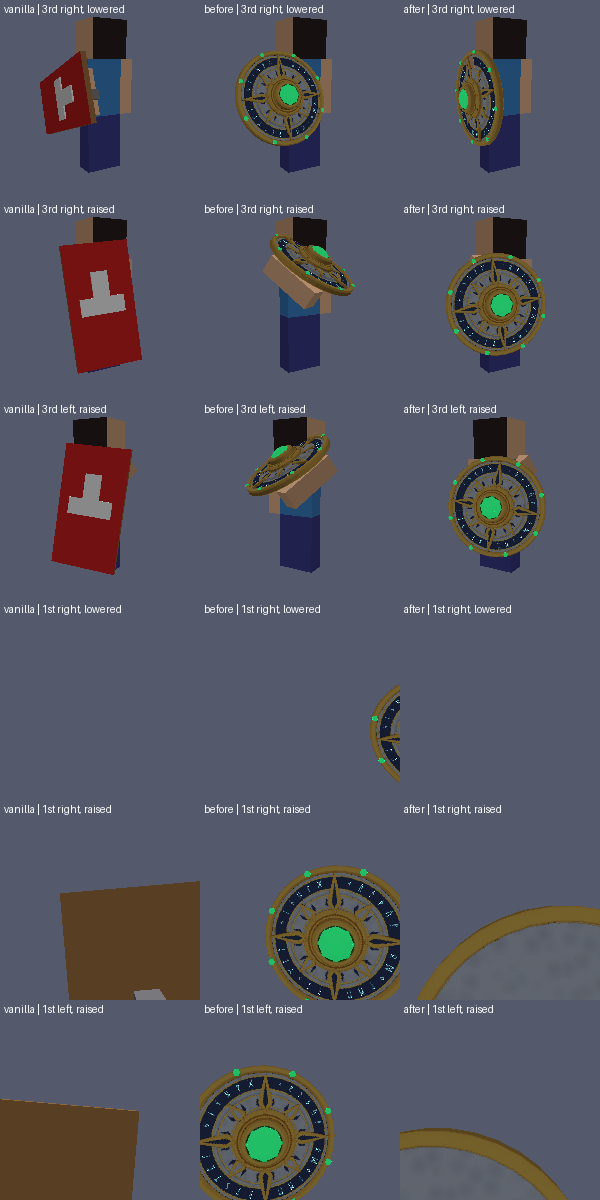
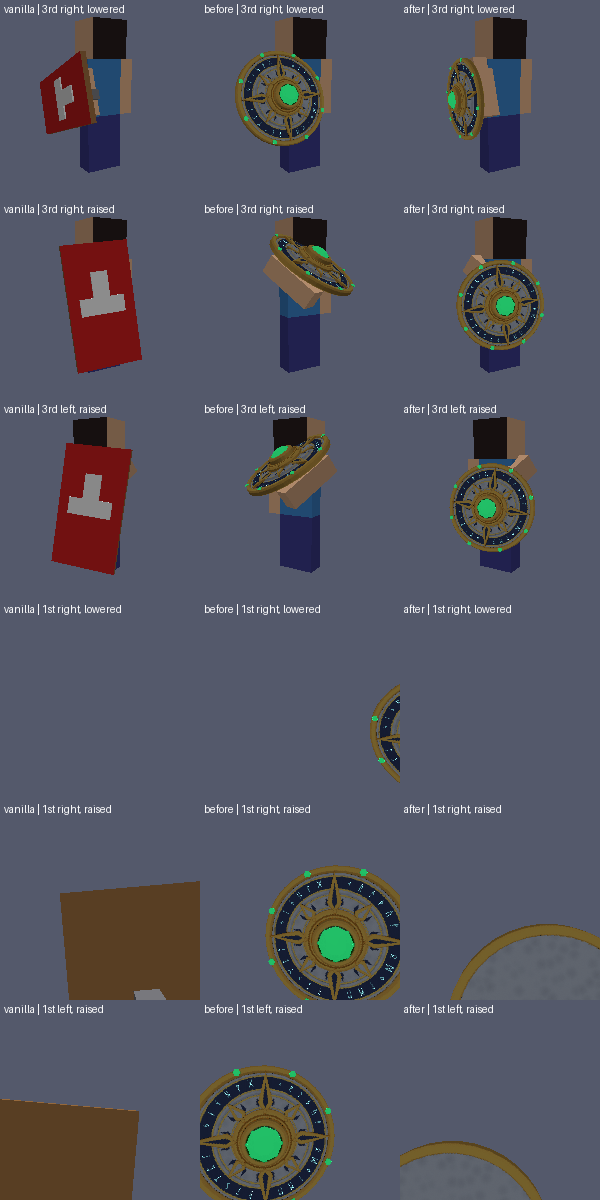
4.71.2: the hero Shield sits a little off the arm [smoke] [strict]
Claude-Session: https://claude.ai/code/session_0174t393fJ2EgwV92FW9SroE

diff --git a/tools/item_preview/preview_shields.py b/tools/item_preview/preview_shields.py
@@ -183,13 +183,19 @@ def old_frame(place, quads):
 
 
 def new_frame(quads):
-    """ShieldFrame.fit: scale to the box, centre, front plane on the plate's front."""
+    """ShieldFrame.fit (4.71.2): scale into 1.1 x 1.0 blocks and at most 0.7 deep, centre, front plane on the plate's front, straps no lower than -0.25, then ARM_GAP (0.14) further along the front axis."""
     xs = [v for (_, p, _) in quads for v in p[:, 0]]
     ys = [v for (_, p, _) in quads for v in p[:, 1]]
     zs = [v for (_, p, _) in quads for v in p[:, 2]]
-    w, h = max(xs) - min(xs), max(ys) - min(ys)
-    k = min(1.3 / w, 1.2 / h)
-    return T(-k * (min(xs) + max(xs)) / 2, -k * (min(ys) + max(ys)) / 2, 2 / 16 - k * max(zs)) @ S(k, k, k)
+    w, h, d = max(xs) - min(xs), max(ys) - min(ys), max(zs) - min(zs)
+    k = min(1.1 / w, 1.0 / h)
+    if d > 0 and k * d > 0.7:
+        k = 0.7 / d
+    tz = 2 / 16 - k * max(zs)
+    back = tz + k * min(zs)
+    if back < -0.25:
+        tz += -0.25 - back
+    return T(-k * (min(xs) + max(xs)) / 2, -k * (min(ys) + max(ys)) / 2, tz + 0.14) @ S(k, k, k)
 
 
 # ---------------------------------------------------------------- rendering

diff --git a/src/main/java/com/newuniverse/nusmp/client/WeaponRenderer.java b/src/main/java/com/newuniverse/nusmp/client/WeaponRenderer.java
@@ -264,7 +264,7 @@ public class WeaponRenderer extends BlockEntityWithoutLevelRenderer {
         }
         if (wrap == null && mesh.shield != null) {                                 // 1.110.0: a shield sits on vanilla's shield frame (visual/shields/ShieldFrame), so vanilla's display values turn it the vanilla way
             float[] sf = ctx.firstPerson() && mesh.shieldFp != null && com.newuniverse.nusmp.visual.shields.ShieldFrame.firstPersonVanillaSize() ? mesh.shieldFp : mesh.shield;      // 4.36.2: in first person a shield is the size of vanilla's, not the 1.3-wide box (it filled the screen)
-            pose.translate(sf[1], sf[2], sf[3]);
+            pose.translate(sf[1], sf[2], sf[3] + com.newuniverse.nusmp.visual.shields.ShieldFrame.armGap());       // 4.71.2: a little off the arm
             pose.scale(sf[0], sf[0], sf[0]);
         } else if (wrap == null) {
             if (gripShift != null) pose.translate(gripShift[0], gripShift[1], gripShift[2]);       // 1.111.0 (docs/weapon_grip.md): the mesh's grip point lands on the hand (third person) / on a sword's hilt spot (first person)

diff --git a/src/main/java/com/newuniverse/nusmp/visual/shields/ShieldFrame.java b/src/main/java/com/newuniverse/nusmp/visual/shields/ShieldFrame.java
@@ -25,6 +25,10 @@ public final class ShieldFrame {
     public static float maxW() { return oldSize() ? OLD_MAX_W : MAX_W; }
     public static float maxH() { return oldSize() ? OLD_MAX_H : MAX_H; }
 
+    /** 4.71.2: how far a mesh is moved off the arm along the shield's front axis (blocks): away from the forearm when raised, away from the hip when lowered. 0 with {@code shieldSize=old}. */
+    public static final float ARM_GAP = 0.14f;
+    public static float armGap() { return oldSize() ? 0f : ARM_GAP; }
+
     /**
      * 4.36.2: the footprint box in FIRST person, in blocks: vanilla's own plate width (12 / 16) and the usual height. Vanilla's first-person display multiplies a shield by 1.25 and
      * holds it close to the camera, so the 1.3 wide box above filled the screen; this keeps a mod shield the size of a vanilla one in the hand.

diff --git a/CHANGELOG.md b/CHANGELOG.md
@@ -1,5 +1,13 @@
 # Changelog
 
+## [4.71.2] — The hero Shield sits a little off the arm
+Owner request: move the shield off the arm a bit.
+- REPLACED (client; `-Danime_multiverse.shieldSize=old` restores it together with the 4.71.0 size change): every shield mesh is drawn 0.14 blocks further along its front axis (`ShieldFrame.ARM_GAP`), away from the forearm when raised and from the hip when lowered. Facing and scale are unchanged.
+- KEPT: the vanilla display values, the fit box and depth limit of 4.71.0, every old model and setting.
+- COST: none (one added constant in the existing pose translate).
+- CAVEATS: software preview only (`docs/previews/shields/`), first-person tiles are drawn at the old size; not seen in a game.
+- Includes everything of 4.65.0 to 4.71.1 (see below): no release was published for those versions because of three outdated relic tests, fixed in 4.71.1.
+
 ## [4.71.1] — Build fix for 4.65.0 to 4.71.0 (the Devil Contract is a plain item)
 - Fix: three relic tests (`RelicHandCoverageTest`, `RelicThemesDataTest`, `Wave102DefsTest`) still expected `devil_contract` to be a relic def, which 4.65.0 turned into a plain craftable item; every build since 4.65.0 failed on them, so no release was published for 4.65.0 to 4.71.0. The tests now know that item. The Devil Contract itself is unchanged.
 - This release carries everything of 4.65.0 to 4.71.0 (see the sections below): infernal contract item, Sinbad armour fit and voices, reset scrolls, curse bow stave, Hub v2, style wave 2, the hero Shield (vanilla guard, reflect, size), any-target techniques, wings on the back, devil mastery and canon devil looks.

diff --git a/LIBRARIES.md b/LIBRARIES.md
@@ -16,7 +16,7 @@ time you build, from the repositories named in `source/build.gradle` and `source
 - Tests: JUnit Jupiter 5.10.2 (Maven Central)
 - Texture regeneration only (optional): Python 3 with Pillow and numpy -> `python tools/gen_grimoire_book_textures.py`
 
-Build:  `gradlew.bat build`  (Mac/Linux `./gradlew build`)  ->  `build/libs/multiverse-of-anime-4.71.1.jar`
+Build:  `gradlew.bat build`  (Mac/Linux `./gradlew build`)  ->  `build/libs/multiverse-of-anime-4.71.2.jar`
 
 Magic rune textures: Node.js (no external packages) -> `node tools/gen_magic_runes.mjs`; optional high-detail ring and band textures use Pillow -> `python tools/gen_magic_runes.py src/main/resources/assets/anime_multiverse/textures/particle/magic_runes`
 

diff --git a/README.md b/README.md
@@ -60,7 +60,7 @@ The DanMachi spells are chanted: hold the skill key, a line finishes every 14 ti
    - Windows: `gradlew.bat build`
    - Mac/Linux: `./gradlew build`
    The first build downloads Minecraft, NeoForge and Tensura, so it takes a while.
-3. The mod jar is in `build/libs/multiverse-of-anime-4.71.1.jar`.
+3. The mod jar is in `build/libs/multiverse-of-anime-4.71.2.jar`.
 
 ## Install
 Put the jar in the `mods` folder of the **server and every player's client**.
